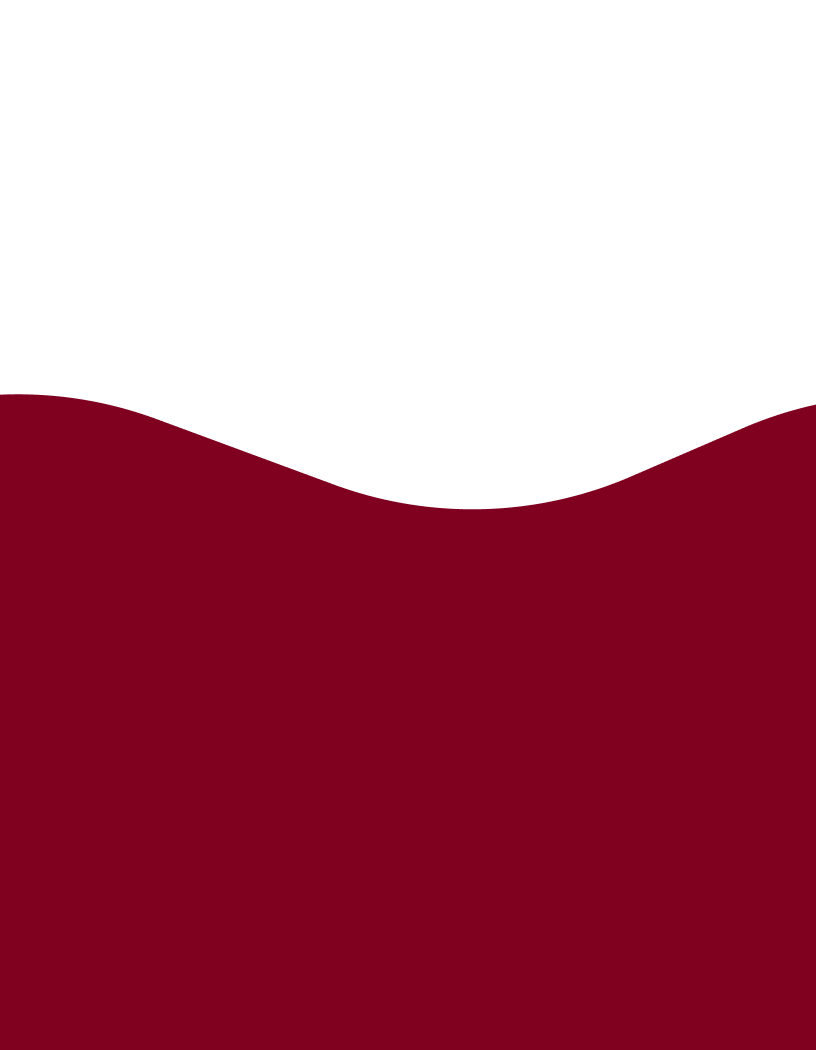
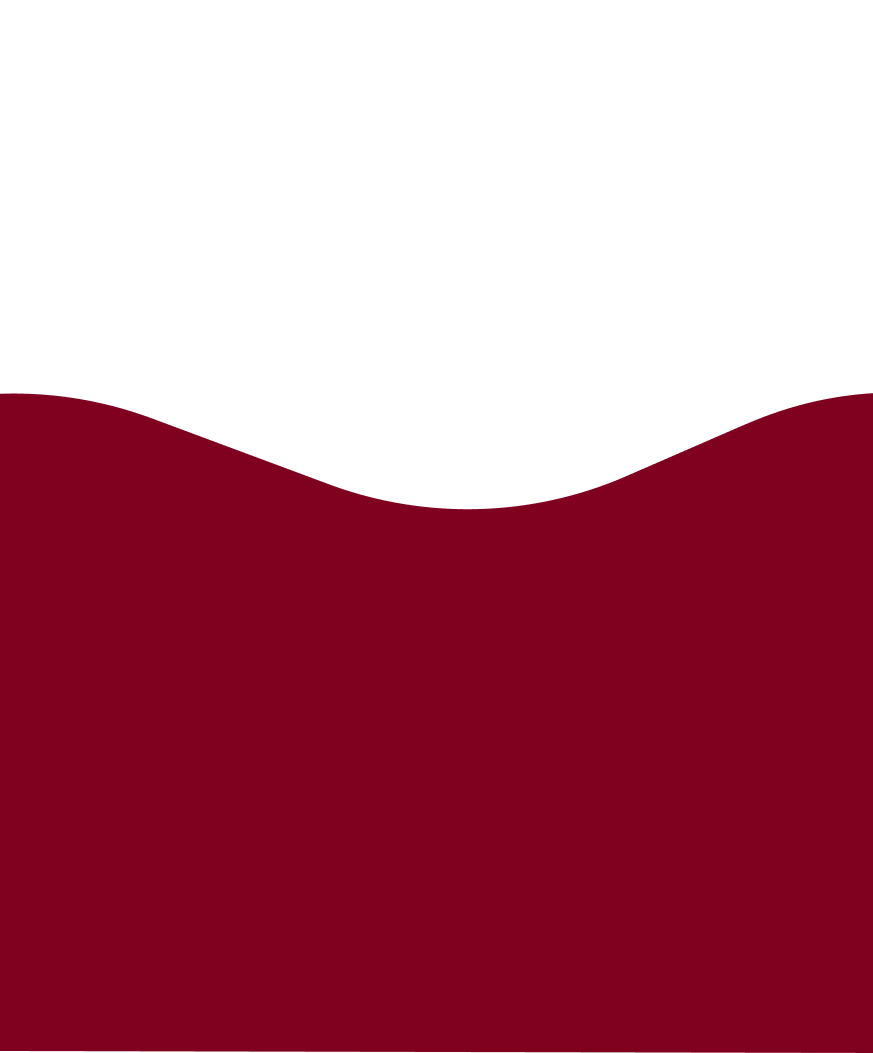
hows this

Changed region(s): [[0.5515, 0.3657, 1.0, 0.4876], [0.2757, 0.4267, 0.5208, 0.4876], [0.1838, 0.3962, 0.2757, 0.4267]]

diff --git a/app/wine/[id]/quiz/styles.module.css b/app/wine/[id]/quiz/styles.module.css
@@ -1,3 +1,37 @@
+.pageContainer {
+    position: relative;
+    min-height: 100vh;
+    font-family: "Playfair Display", serif;
+    overflow: hidden; /* Ensures no scrolling issues with the pseudo-element */
+}
+
+.pageContainer::before {
+    content: "";
+    position: absolute;
+    top: 0;
+    left: 0;
+    right: 0;
+    bottom: 0;
+    background-image: url("/wine/wine.png");
+    background-size: 1200px 1000px;
+    background-position: center;
+    background-repeat: repeat-x;
+    opacity: 0.2; /* Adjusts only the background image opacity */
+    z-index: 0;
+    pointer-events: none; /* Ensures the background does not block clicks */
+    animation: flow 12s linear infinite;
+}
+
+/* Animation for the flowing effect */
+@keyframes flow {
+    0% {
+        background-position: -1200px 200px;
+    }
+    100% {
+        background-position: 0 200px; /* Adjust as needed for speed and direction */
+    }
+}
+
 .title {
     text-align: center;
     font-size: 2rem;
@@ -16,8 +50,4 @@
     color: #f0f0f0;
     border-radius: 5px;
     padding: 2px 5px;
-}
-
-.font-serif {
-    font-family: "Playfair Display", serif;
 }

diff --git a/app/wine/[id]/quiz/page.tsx b/app/wine/[id]/quiz/page.tsx
@@ -27,7 +27,7 @@ export default async function Page({ params, searchParams }: any) {
     const isHidden = searchParams.isHidden === "true";
 
     return (
-        <div className="relative font-serif">
+        <div className={styles.pageContainer}>
             <div className="absolute top-2.5 left-2.5">
                 <Link href={`/wine?isHidden=${isHidden}`}>
                     <FaWineBottle className="h-6 w-6" />
